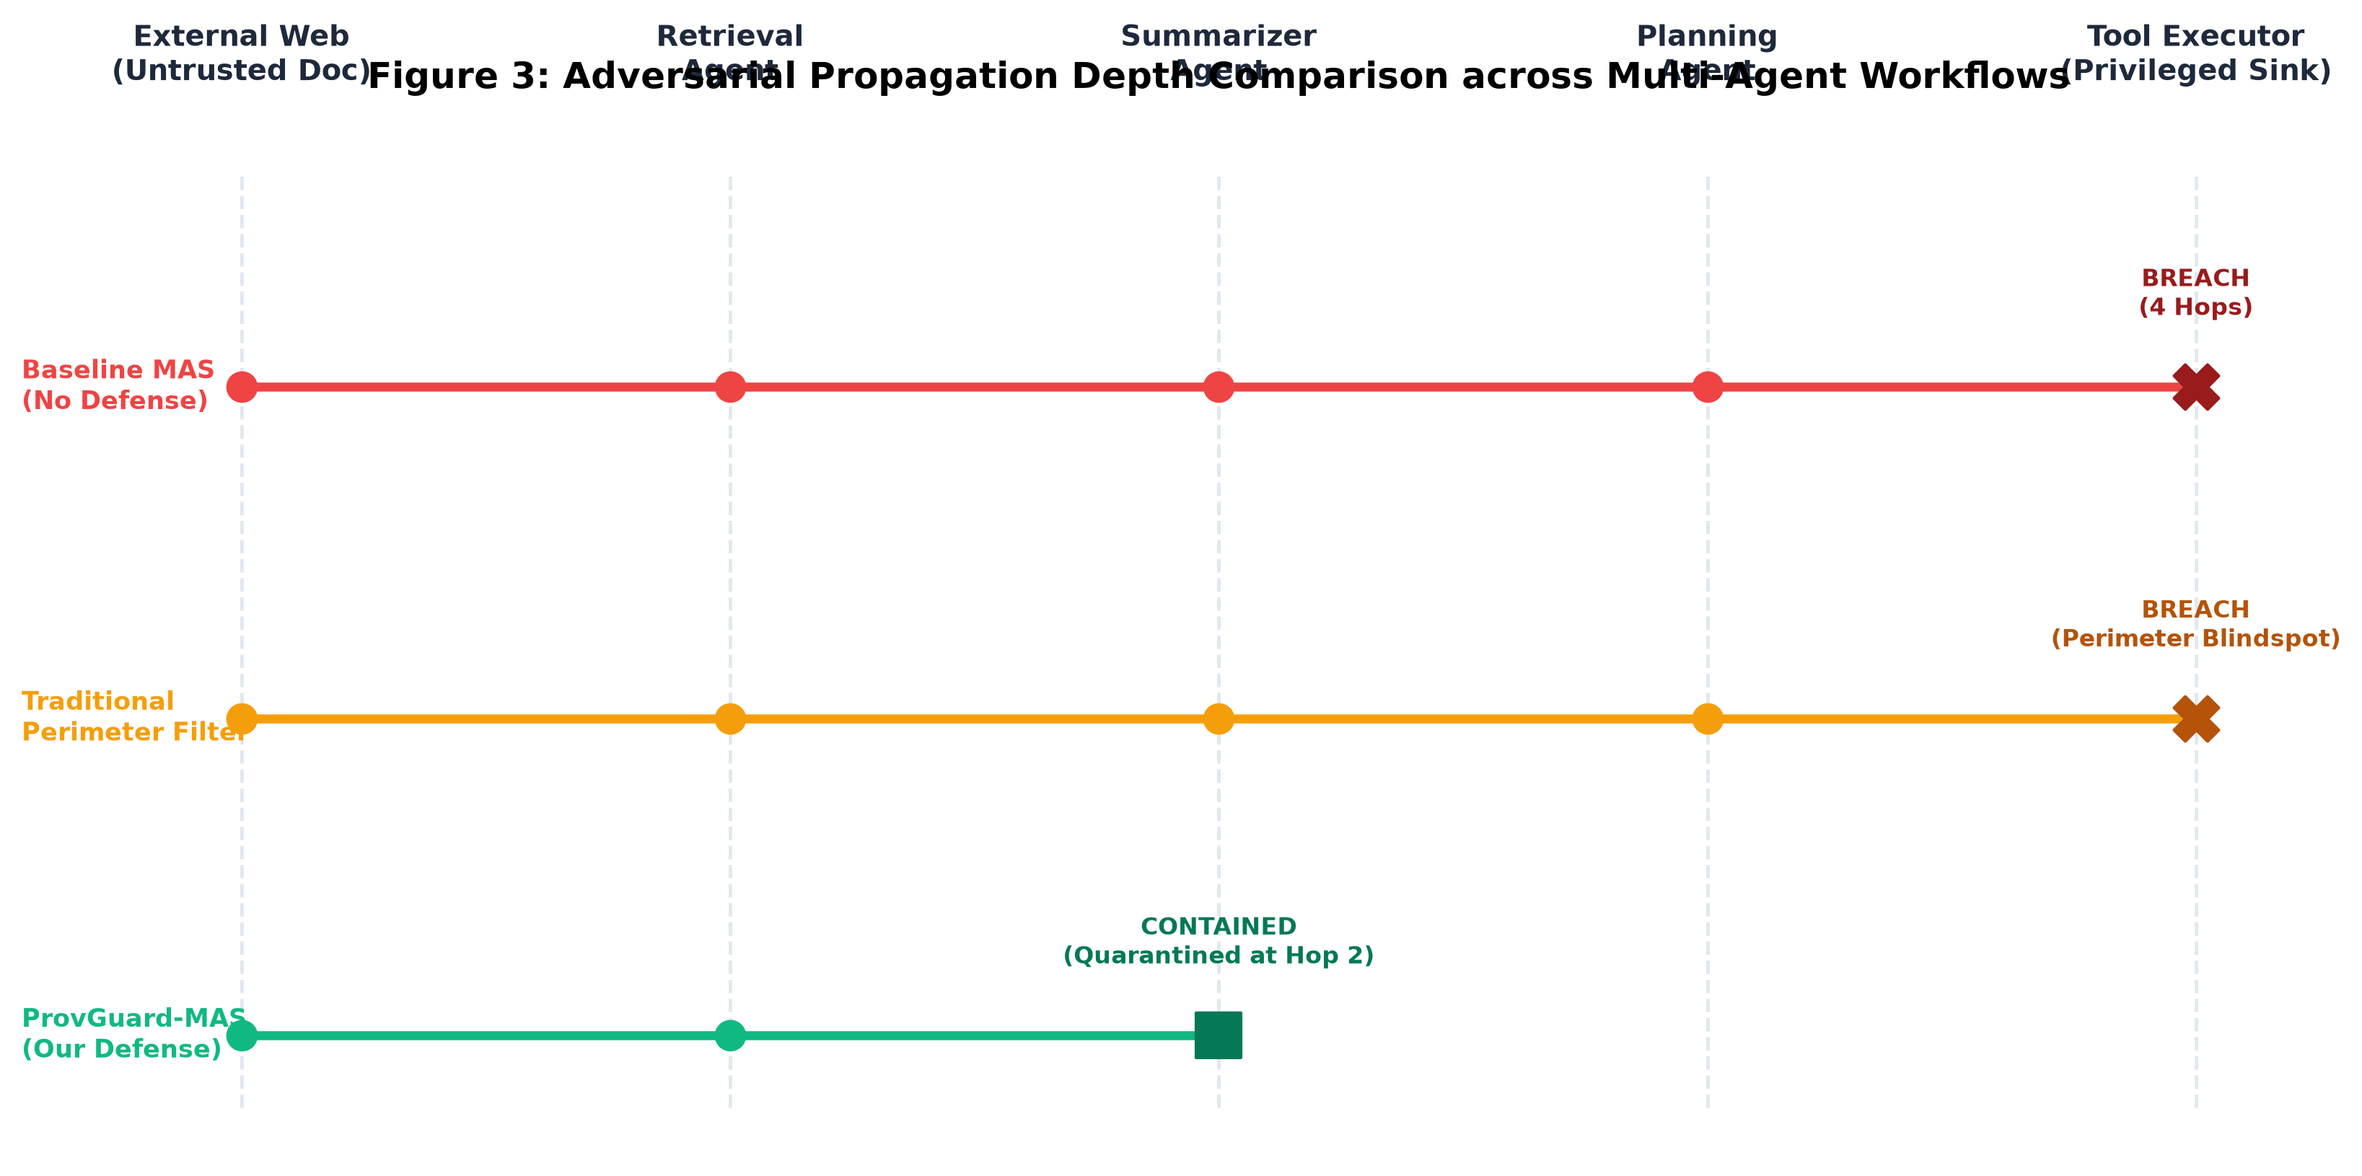
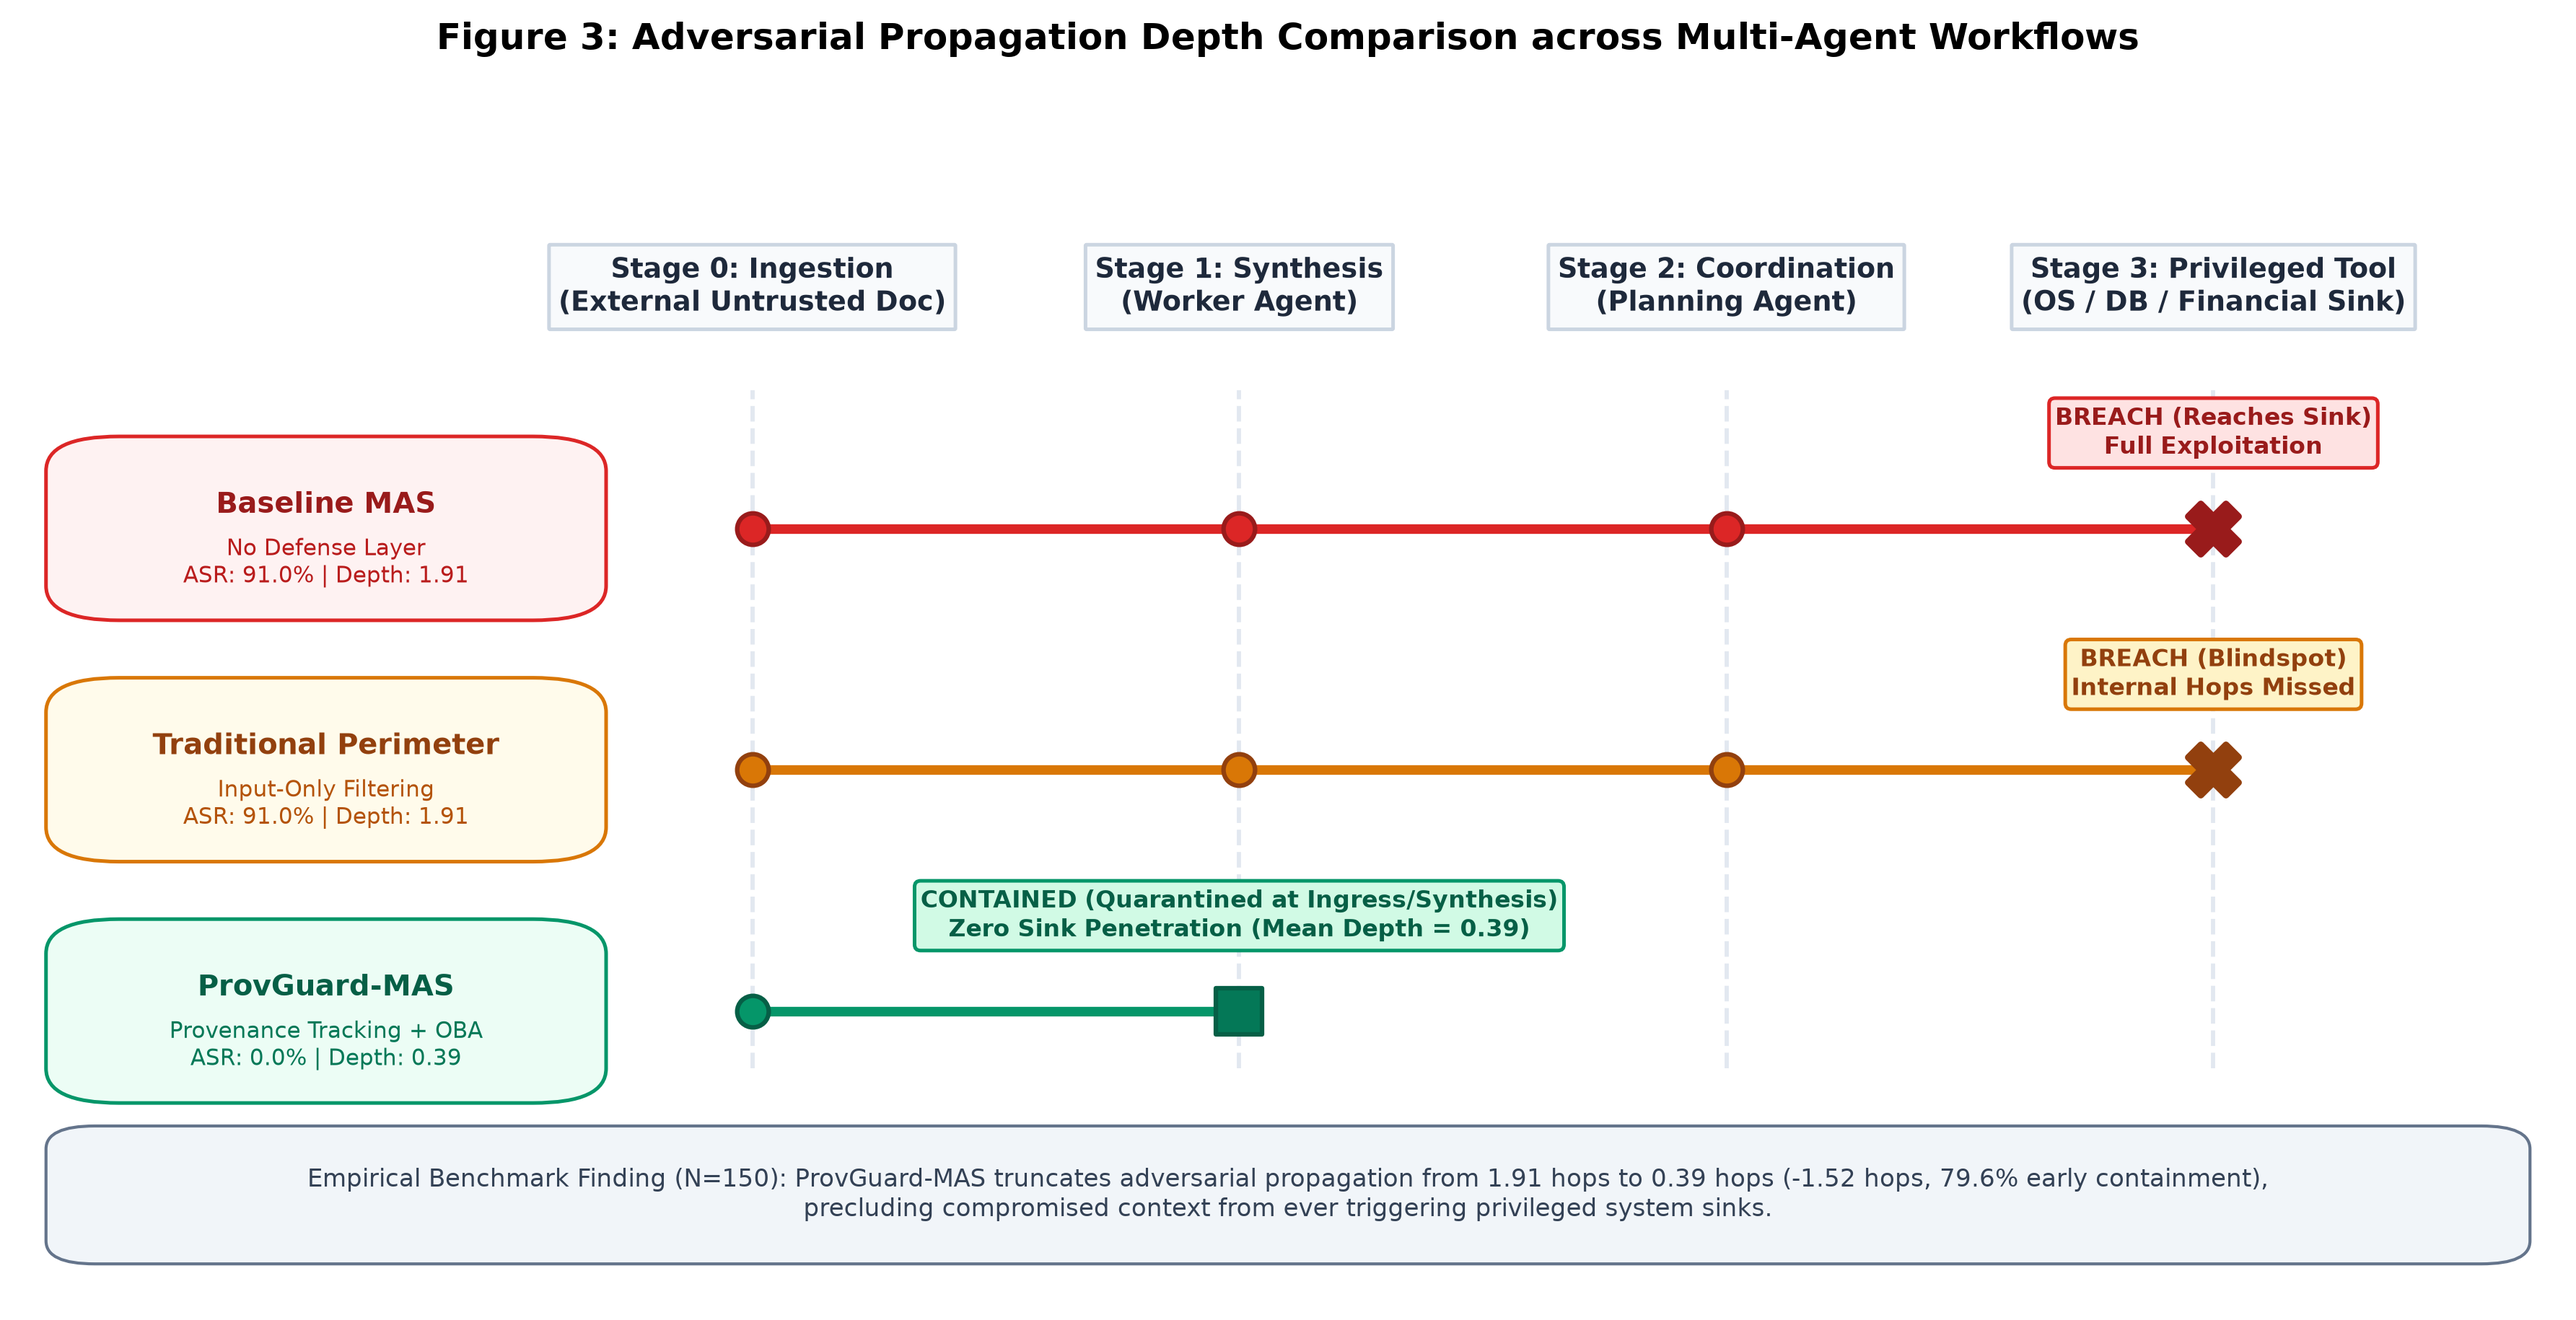
feat(figures): polish Figure 3 attack propagation diagram with lane cards and empirical depth findings

diff --git a/experiments/generate_figures.py b/experiments/generate_figures.py
@@ -308,45 +308,106 @@ def generate_figure_2_provenance_dag(output_dir: str):
 
 def generate_figure_3_propagation_paths(output_dir: str):
     """Figure 3: Adversarial Propagation Paths across Defense Paradigms."""
-    fig, ax = plt.subplots(figsize=(11, 5.5))
+    fig, ax = plt.subplots(figsize=(12, 6.2))
     ax.axis("off")
+    ax.set_xlim(-0.02, 1.02)
+    ax.set_ylim(-0.02, 1.02)
 
-    stages = ["External Web\n(Untrusted Doc)", "Retrieval\nAgent", "Summarizer\nAgent", "Planning\nAgent", "Tool Executor\n(Privileged Sink)"]
-    x_positions = [0.10, 0.30, 0.50, 0.70, 0.90]
+    # Stages and X positions
+    stages = [
+        "Stage 0: Ingestion\n(External Untrusted Doc)", 
+        "Stage 1: Synthesis\n(Worker Agent)", 
+        "Stage 2: Coordination\n(Planning Agent)", 
+        "Stage 3: Privileged Tool\n(OS / DB / Financial Sink)"
+    ]
+    x_stages = [0.28, 0.48, 0.68, 0.88]
 
-    for x, s in zip(x_positions, stages):
-        ax.text(x, 0.88, s, ha="center", va="center", fontweight="bold", fontsize=9.5, color="#1e293b")
-        ax.plot([x, x], [0.15, 0.80], color="#e2e8f0", linestyle="--", lw=1.2, zorder=1)
+    # Draw vertical dashed guide lines and stage headers
+    for x, s in zip(x_stages, stages):
+        ax.plot([x, x], [0.18, 0.77], color="#e2e8f0", linestyle="--", lw=1.4, zorder=1)
+        stage_box = dict(boxstyle="round,pad=0.35,rounding_size=0.04", facecolor="#f8fafc", edgecolor="#cbd5e1", lw=1.2)
+        ax.text(x, 0.86, s, ha="center", va="center", fontweight="bold", fontsize=9.0, 
+                color="#1e293b", bbox=stage_box, zorder=3)
 
-    # 1. Baseline
+    # 1. Baseline Path (Red)
     y_base = 0.65
-    ax.text(0.01, y_base, "Baseline MAS\n(No Defense)", va="center", fontsize=8.5, fontweight="bold", color="#ef4444")
-    ax.plot(x_positions, [y_base]*5, color="#ef4444", lw=3, zorder=2)
-    ax.scatter(x_positions[:-1], [y_base]*4, color="#ef4444", s=90, zorder=3)
-    ax.scatter([x_positions[-1]], [y_base], color="#991b1b", marker="X", s=220, zorder=4)
-    ax.text(x_positions[-1], y_base + 0.05, "BREACH\n(4 Hops)", ha="center", color="#991b1b", fontweight="bold", fontsize=8)
+    lane_base = patches.FancyBboxPatch(
+        (0.01, y_base - 0.06), 0.19, 0.12,
+        boxstyle="round,pad=0.02,rounding_size=0.03",
+        linewidth=1.2, edgecolor="#dc2626", facecolor="#fef2f2", zorder=2
+    )
+    ax.add_patch(lane_base)
+    ax.text(0.105, y_base + 0.02, "Baseline MAS", ha="center", va="center", 
+            fontweight="bold", fontsize=9.5, color="#991b1b", zorder=3)
+    ax.text(0.105, y_base - 0.03, "No Defense Layer\nASR: 91.0% | Depth: 1.91", ha="center", va="center", 
+            fontsize=7.5, color="#b91c1c", zorder=3)
 
-    # 2. Traditional Perimeter
-    y_trad = 0.42
-    ax.text(0.01, y_trad, "Traditional\nPerimeter Filter", va="center", fontsize=8.5, fontweight="bold", color="#f59e0b")
-    ax.plot(x_positions, [y_trad]*5, color="#f59e0b", lw=3, zorder=2)
-    ax.scatter(x_positions[:-1], [y_trad]*4, color="#f59e0b", s=90, zorder=3)
-    ax.scatter([x_positions[-1]], [y_trad], color="#b45309", marker="X", s=220, zorder=4)
-    ax.text(x_positions[-1], y_trad + 0.05, "BREACH\n(Perimeter Blindspot)", ha="center", color="#b45309", fontweight="bold", fontsize=8)
+    # Path line
+    ax.plot(x_stages, [y_base] * 4, color="#dc2626", lw=3.2, zorder=2)
+    ax.scatter(x_stages[:-1], [y_base] * 3, color="#dc2626", s=110, edgecolor="#991b1b", lw=1.5, zorder=3)
+    ax.scatter([x_stages[-1]], [y_base], color="#991b1b", marker="X", s=280, lw=2.2, zorder=4)
+    breach_box1 = dict(boxstyle="round,pad=0.25", facecolor="#fee2e2", edgecolor="#dc2626", lw=1.2)
+    ax.text(x_stages[-1], y_base + 0.065, "BREACH (Reaches Sink)\nFull Exploitation", ha="center", 
+            color="#991b1b", fontweight="bold", fontsize=8.0, bbox=breach_box1, zorder=5)
 
-    # 3. ProvGuard-MAS
-    y_prov = 0.20
-    ax.text(0.01, y_prov, "ProvGuard-MAS\n(Our Defense)", va="center", fontsize=8.5, fontweight="bold", color="#10b981")
-    ax.plot(x_positions[:3], [y_prov]*3, color="#10b981", lw=3, zorder=2)
-    ax.scatter(x_positions[:2], [y_prov]*2, color="#10b981", s=90, zorder=3)
-    # Intercept marker at hop 2/3
-    ax.scatter([x_positions[2]], [y_prov], color="#047857", marker="s", s=220, zorder=4)
-    ax.text(x_positions[2], y_prov + 0.05, "CONTAINED\n(Quarantined at Hop 2)", ha="center", color="#047857", fontweight="bold", fontsize=8)
+    # 2. Traditional Perimeter Path (Orange)
+    y_trad = 0.44
+    lane_trad = patches.FancyBboxPatch(
+        (0.01, y_trad - 0.06), 0.19, 0.12,
+        boxstyle="round,pad=0.02,rounding_size=0.03",
+        linewidth=1.2, edgecolor="#d97706", facecolor="#fffbeb", zorder=2
+    )
+    ax.add_patch(lane_trad)
+    ax.text(0.105, y_trad + 0.02, "Traditional Perimeter", ha="center", va="center", 
+            fontweight="bold", fontsize=9.5, color="#92400e", zorder=3)
+    ax.text(0.105, y_trad - 0.03, "Input-Only Filtering\nASR: 91.0% | Depth: 1.91", ha="center", va="center", 
+            fontsize=7.5, color="#b45309", zorder=3)
 
-    ax.set_title("Figure 3: Adversarial Propagation Depth Comparison across Multi-Agent Workflows", pad=12, fontweight="bold")
+    # Path line
+    ax.plot(x_stages, [y_trad] * 4, color="#d97706", lw=3.2, zorder=2)
+    ax.scatter(x_stages[:-1], [y_trad] * 3, color="#d97706", s=110, edgecolor="#92400e", lw=1.5, zorder=3)
+    ax.scatter([x_stages[-1]], [y_trad], color="#92400e", marker="X", s=280, lw=2.2, zorder=4)
+    breach_box2 = dict(boxstyle="round,pad=0.25", facecolor="#fef3c7", edgecolor="#d97706", lw=1.2)
+    ax.text(x_stages[-1], y_trad + 0.065, "BREACH (Blindspot)\nInternal Hops Missed", ha="center", 
+            color="#92400e", fontweight="bold", fontsize=8.0, bbox=breach_box2, zorder=5)
+
+    # 3. ProvGuard-MAS Path (Green)
+    y_prov = 0.23
+    lane_prov = patches.FancyBboxPatch(
+        (0.01, y_prov - 0.06), 0.19, 0.12,
+        boxstyle="round,pad=0.02,rounding_size=0.03",
+        linewidth=1.2, edgecolor="#059669", facecolor="#ecfdf5", zorder=2
+    )
+    ax.add_patch(lane_prov)
+    ax.text(0.105, y_prov + 0.02, "ProvGuard-MAS", ha="center", va="center", 
+            fontweight="bold", fontsize=9.5, color="#065f46", zorder=3)
+    ax.text(0.105, y_prov - 0.03, "Provenance Tracking + OBA\nASR: 0.0% | Depth: 0.39", ha="center", va="center", 
+            fontsize=7.5, color="#047857", zorder=3)
+
+    # Path line intercepted before execution
+    ax.plot([x_stages[0], x_stages[1]], [y_prov, y_prov], color="#059669", lw=3.2, zorder=2)
+    ax.scatter([x_stages[0]], [y_prov], color="#059669", s=110, edgecolor="#065f46", lw=1.5, zorder=3)
+    ax.scatter([x_stages[1]], [y_prov], color="#047857", marker="s", s=240, edgecolor="#065f46", lw=1.5, zorder=4)
+    contain_box = dict(boxstyle="round,pad=0.25", facecolor="#d1fae5", edgecolor="#059669", lw=1.2)
+    ax.text(x_stages[1], y_prov + 0.065, "CONTAINED (Quarantined at Ingress/Synthesis)\nZero Sink Penetration (Mean Depth = 0.39)", 
+            ha="center", color="#065f46", fontweight="bold", fontsize=8.0, bbox=contain_box, zorder=5)
+
+    # Bottom Empirical Verification Banner
+    banner_rect = patches.FancyBboxPatch(
+        (0.01, 0.03), 0.98, 0.08,
+        boxstyle="round,pad=0.02,rounding_size=0.02",
+        linewidth=1.0, edgecolor="#64748b", facecolor="#f1f5f9", zorder=2
+    )
+    ax.add_patch(banner_rect)
+    ax.text(0.50, 0.07, 
+            "Empirical Benchmark Finding (N=150): ProvGuard-MAS truncates adversarial propagation from 1.91 hops to 0.39 hops (-1.52 hops, 79.6% early containment),\nprecluding compromised context from ever triggering privileged system sinks.",
+            ha="center", va="center", fontsize=8.2, color="#334155", zorder=3)
+
+    ax.set_title("Figure 3: Adversarial Propagation Depth Comparison across Multi-Agent Workflows", 
+                 pad=18, fontweight="bold", fontsize=12)
     plt.tight_layout()
     out_path = os.path.join(output_dir, "figure_3_attack_propagation_paths.png")
-    plt.savefig(out_path)
+    plt.savefig(out_path, dpi=300)
     plt.close()
     print(f"[✓] Generated: {out_path}")
 
